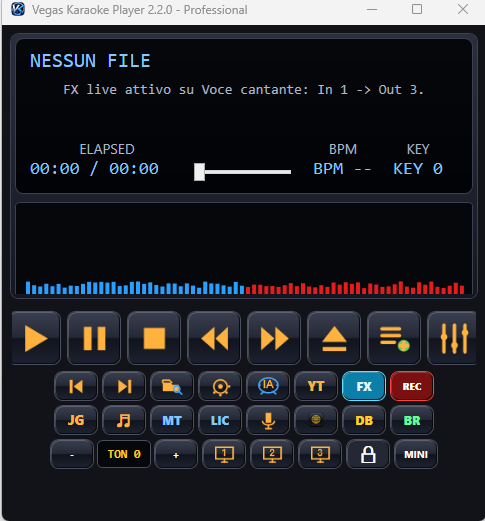
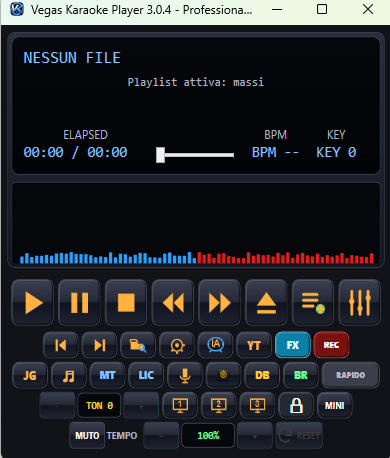
Add files via upload

Changed region(s): [[0.0, 0.0, 1.0, 1.0], [0.9846, 0.9782, 1.0, 1.0], [0.7385, 0.3057, 0.7692, 0.3362]]

diff --git a/prezzi.html b/prezzi.html
@@ -1,4 +1,4 @@
 <!DOCTYPE html>
 
 <html lang="it"><head><meta charset="utf-8"/><meta content="width=device-width,initial-scale=1" name="viewport"/><title>Prezzi Vegas Karaoke Player | Licenze Home e Professional</title><meta content="Prezzi Vegas Karaoke Player: Demo gratuita, licenza Home a 29€ e Professional a 79€ per 12 mesi. Scopri anche il programma Invita un amico." name="description"/><link href="https://karaokeplayer.it/prezzi.html" rel="canonical"/><meta content="Prezzi Vegas Karaoke Player | Licenze e premi Invita un amico" property="og:title"/><meta content="Professional a 79€ per 12 mesi. Con il Codice Cliente: 1 amico porta il 50% di sconto sul rinnovo, 3 amici estendono la licenza a 24 mesi." property="og:description"/><meta content="website" property="og:type"/><meta content="https://karaokeplayer.it/assets/img/screenshot-player-220.png" property="og:image"/><meta content="summary_large_image" name="twitter:card"/><link href="favicon.png" rel="icon"/><link href="assets/css/style.css" rel="stylesheet"/><meta content="Massimiliano Bevilacqua" name="author"/><meta content="index, follow, max-image-preview:large" name="robots"/><meta content="#111111" name="theme-color"/><meta content="software karaoke, programma karaoke, karaoke Windows, player karaoke, Vegas Karaoke Player, MIDI KAR CDG, SoundFont, DJ karaoke, creare karaoke con IA" name="keywords"/><link href="favicon-32.png" rel="icon" sizes="32x32"/><link href="apple-touch-icon.png" rel="apple-touch-icon"/><meta content="Prezzi Vegas Karaoke Player | Licenze e premi" name="twitter:title"/><meta content="Professional a 79€ per 12 mesi con programma Invita un amico tramite Codice Cliente." name="twitter:description"/><meta content="https://karaokeplayer.it/prezzi.html" property="og:url"/><meta content="Vegas Karaoke Player" property="og:site_name"/><script type="application/ld+json">{"@context":"https://schema.org","@type":"SoftwareApplication","name":"Vegas Karaoke Player","url":"https://karaokeplayer.it/","image":"https://karaokeplayer.it/assets/img/logo-vegas-karaoke.png","operatingSystem":"Windows 10, Windows 11","applicationCategory":"MultimediaApplication","softwareVersion":"2.3.1","description":"Prezzi e licenze Vegas Karaoke Player: Home 29 euro anno, Professional 59 euro anno, demo 15 giorni, assistenza, uso privato e professionale.","offers":[{"@type":"Offer","name":"Home Edition","price":"29","priceCurrency":"EUR","availability":"https://schema.org/InStock"},{"@type":"Offer","name":"Professional 12 mesi","price":"79","priceCurrency":"EUR","availability":"https://schema.org/InStock"}],"publisher":{"@type":"Organization","name":"Massimiliano Bevilacqua","email":"info@karaokeplayer.it","url":"https://karaokeplayer.it/"}}</script></head><body><header class="topbar"><div class="container nav"><a class="brand" href="index.html"><img alt="Vegas Karaoke Player software karaoke professionale per Windows" src="assets/img/icon-vk.png"/><span>Vegas Karaoke Player</span></a><button class="btn2 mobile-toggle" type="button">Menu</button><nav class="navlinks"><a href="index.html">Home</a><a href="novita-3-0.html">Novità 3.0</a><a href="funzionalita.html">Funzioni</a><a href="bruce-assistente-ia.html">Bruce IA</a><a href="fonico-ai.html">Fonico AI</a><a href="manuale-online.html">Manuale Online</a><a href="jangle-pad-wall.html">Jangle</a><a href="database-karaoke.html">Database</a><a href="creare-karaoke-ia.html">IA</a><a href="prezzi.html">Prezzi</a><a href="invita-un-amico.html">Invita un amico</a><a href="download.html">Download</a><a href="banco-suoni-pro.html">Banco PRO</a><a href="faq.html">FAQ</a></nav></div></header>
-<main><section class="hero"><div class="container"><span class="eyebrow">Licenze Vegas Karaoke Player</span><h1 class="h1">FREE, HOME e PROFESSIONAL</h1><p class="lead">Una sola installazione. Scegli le funzioni che ti servono.</p></div></section><section class="section pricing-new" id="nuove-licenze"><div class="container"><span class="eyebrow">Nuovo listino Vegas Karaoke Player</span><h2>Un solo programma, la licenza giusta per te</h2><p class="sub">Prova completa PRO per 10 giorni; poi versione FREE gratuita per sempre. Le nuove modalità saranno disponibili con l’aggiornamento del sistema licenze.</p><div class="vk-price-grid"><article class="vk-plan"><h3>FREE</h3><div class="vk-amount">0 €</div><p>Gratis per sempre · 1 PC</p><ul><li>Player karaoke essenziale</li><li>Un solo monitor</li><li>Nessun plugin o funzione IA</li><li>Solo uso privato</li></ul><a class="btn2" href="download.html">Scarica il player</a></article><article class="vk-plan"><h3>HOME</h3><div class="vk-amount">30 €</div><p>Una tantum · 1 PC</p><ul><li>Licenza permanente</li><li>Tutte le funzioni e i plugin non IA</li><li>Fino a 3 monitor</li><li>Primo anno di aggiornamenti incluso</li><li><strong>NON PER USO IN PUBBLICO</strong></li></ul><a class="btn2" href="acquista.html">Richiedi HOME</a></article><article class="vk-plan vk-featured"><span class="vk-plan-tag">Tutto incluso</span><h3>PROFESSIONAL</h3><div class="vk-amount">59,90 € <small>/ 12 mesi</small></div><p>Oppure <strong>129 € per sempre</strong></p><ul><li>Tutte le funzioni e tutti i plugin</li><li>IA inclusa (eventuali servizi esterni esclusi)</li><li>Uso professionale del software</li><li>2 PC utilizzabili contemporaneamente</li><li>PRO permanente: 12 mesi aggiornamenti inclusi, poi 30 €/anno facoltativi</li></ul><a class="btn gold" href="acquista.html">Richiedi PRO</a></article></div><p class="note">HOME: aggiornamenti dopo il primo anno facoltativi, prezzo di rinnovo da confermare. Le licenze permanenti restano utilizzabili anche senza rinnovo aggiornamenti. L’uso pubblico del software non include diritti sui brani musicali.</p></div></section><section class="section"><div class="container"><h2>Confronta le versioni</h2><div style="overflow-x:auto"><table class="vk-compare"><thead><tr><th>Funzione</th><th>FREE</th><th>HOME</th><th>PRO</th></tr></thead><tbody><tr><td>Riproduzione karaoke e playlist</td><td>✓</td><td>✓</td><td>✓</td></tr><tr><td>Secondo monitor</td><td>—</td><td>✓</td><td>✓</td></tr><tr><td>Plugin tradizionali, VST, ASIO, Jangle</td><td>—</td><td>✓</td><td>✓</td></tr><tr><td>Fonico AI, Bruce IA, Crea Karaoke IA</td><td>—</td><td>—</td><td>✓</td></tr><tr><td>Utilizzo pubblico consentito dalla licenza software</td><td>—</td><td>—</td><td>✓</td></tr><tr><td>Computer</td><td>1</td><td>1</td><td>2 simultanei</td></tr></tbody></table></div><div class="vk-notice"><strong>TRIAL PRO: 10 giorni con tutte le funzioni abilitate.</strong> Dal giorno 11 il programma passa alla FREE senza cancellare dati o playlist. La nuova gestione sarà effettiva dopo il rilascio del relativo aggiornamento software.</div><h2>Black Friday e Natale 2026 — promozione programmata</h2><p>Dal 27 novembre al 31 dicembre 2026, previa attivazione commerciale: HOME <strong>24,90 €</strong>, PRO annuale <strong>44,90 €</strong>, PRO permanente <strong>99 €</strong>. I prezzi di riferimento e le comunicazioni di sconto saranno verificati prima della pubblicazione dell’offerta.</p><p>Le condizioni delle licenze già acquistate restano valide secondo gli accordi originari. <a href="acquista.html">Richiedi informazioni sulle nuove licenze</a>.</p></div></section></main><footer class="footer"><div class="container footer-grid"><div><a class="brand" href="index.html"><img alt="Vegas Karaoke Player software karaoke professionale per Windows" src="assets/img/icon-vk.png"/><span>Vegas Karaoke Player</span></a><p>Workstation professionale per karaoke, DJ, cantanti, musicisti, locali e band live.</p><p><strong>Massimiliano Bevilacqua</strong><br/>P. IVA 02090440492<br/><a href="mailto:info@karaokeplayer.it">info@karaokeplayer.it</a><br/><a class="whatsapp-link" href="https://wa.me/393791852714?text=Ciao%2C%20vorrei%20informazioni%20su%20Vegas%20Karaoke%20Player" rel="noopener" target="_blank">WhatsApp 379 185 2714</a><br/><a class="social-link" href="https://www.facebook.com/profile.php?id=61590640049211" rel="noopener" target="_blank">Facebook Vegas Karaoke Player</a></p></div><div><h3>Sito</h3><a href="index.html">Home</a><a href="funzionalita.html">Funzionalità</a><a href="screenshot.html">Screenshot</a><a href="prezzi.html">Prezzi</a><a href="download.html">Download</a><a href="acquista.html">Acquista</a><a href="supporto.html">Supporto</a><a href="faq.html">FAQ</a><a href="invita-un-amico.html">Invita un amico</a></div><div><h3>Funzioni Avanzate</h3><a href="jangle-live.html">Jangle Live e Pad Wall</a><a href="formati-karaoke-supportati.html">Formati supportati</a><a href="creare-karaoke-da-mp3.html">Creazione Karaoke con IA</a><a href="dj-online.html">Pannello DJ Online senza app</a><a href="midi-soundfont.html">Mixer MIDI &amp; SoundFont</a><a href="multitraccia-band.html">Multitraccia Band</a><a href="personalizzazioni.html">Sviluppi personalizzati</a></div><div><h3>Legale</h3><a href="privacy.html">Privacy Policy</a><a href="cookie.html">Cookie Policy</a><a href="termini-vendita.html">Termini di Vendita</a><a href="eula.html">Licenza Software</a><a href="termini-dj-online.html">Termini DJ Online</a><a href="docs/Disclaimer_Copyright_Contenuti_Vegas_Karaoke_Player.pdf">PDF Copyright e Contenuti</a><a href="docs/Assistenza_Tecnica_Vegas_Karaoke_Player.pdf">PDF Assistenza Tecnica</a></div></div><div class="container note">© 2026 Vegas Karaoke Player - Tutti i diritti riservati. Software professionale per karaoke, DJ, cantanti, locali e intrattenimento musicale. Marchi e nomi citati appartengono ai rispettivi proprietari.</div></footer><script src="assets/js/main.js"></script></body></html>
+<main><section class="section"><div class="container"><h2>Nuovo listino previsto per Vegas Karaoke Player 3.0</h2><p><strong>FREE:</strong> gratuita · <strong>HOME permanente:</strong> 30 € (solo uso privato) · <strong>PRO annuale:</strong> 59,90 €/anno · <strong>PRO permanente:</strong> 129 €.</p><p>Prova PRO di 10 giorni, poi FREE. </p></div></section><section class="hero"><div class="container"><span class="eyebrow">Licenze Vegas Karaoke Player</span><h1 class="h1">FREE, HOME e PROFESSIONAL</h1><p class="lead">Una sola installazione. Scegli le funzioni che ti servono.</p></div></section><section class="section pricing-new" id="nuove-licenze"><div class="container"><span class="eyebrow">Nuovo listino Vegas Karaoke Player</span><h2>Un solo programma, la licenza giusta per te</h2><p class="sub">Prova completa PRO per 10 giorni; poi versione FREE gratuita per sempre.</p><div class="vk-price-grid"><article class="vk-plan"><h3>FREE</h3><div class="vk-amount">0 €</div><p>Gratis per sempre · 1 PC</p><ul><li>Player karaoke essenziale</li><li>Un solo monitor</li><li>Nessun plugin o funzione IA</li><li>Solo uso privato</li></ul><a class="btn2" href="download.html">Scarica il player</a></article><article class="vk-plan"><h3>HOME</h3><div class="vk-amount">30 €</div><p>Una tantum · 1 PC</p><ul><li>Licenza permanente</li><li>Tutte le funzioni e i plugin non IA</li><li>Fino a 3 monitor</li><li>Primo anno di aggiornamenti incluso</li><li><strong>NON PER USO IN PUBBLICO</strong></li></ul><a class="btn2" href="acquista.html">Richiedi HOME</a></article><article class="vk-plan vk-featured"><span class="vk-plan-tag">Tutto incluso</span><h3>PROFESSIONAL</h3><div class="vk-amount">59,90 € <small>/ 12 mesi</small></div><p>Oppure <strong>129 € per sempre</strong></p><ul><li>Tutte le funzioni e tutti i plugin</li><li>IA inclusa (eventuali servizi esterni esclusi)</li><li>Uso professionale del software</li><li>2 PC utilizzabili contemporaneamente</li><li>PRO permanente: 12 mesi aggiornamenti inclusi, poi 30 €/anno facoltativi</li></ul><a class="btn gold" href="acquista.html">Richiedi PRO</a></article></div><p class="note">HOME: aggiornamenti dopo il primo anno facoltativi, prezzo di rinnovo da confermare. Le licenze permanenti restano utilizzabili anche senza rinnovo aggiornamenti. L’uso pubblico del software non include diritti sui brani musicali.</p></div></section><section class="section"><div class="container"><h2>Confronta le versioni</h2><div style="overflow-x:auto"><table class="vk-compare"><thead><tr><th>Funzione</th><th>FREE</th><th>HOME</th><th>PRO</th></tr></thead><tbody><tr><td>Riproduzione karaoke e playlist</td><td>✓</td><td>✓</td><td>✓</td></tr><tr><td>Secondo monitor</td><td>—</td><td>✓</td><td>✓</td></tr><tr><td>Plugin tradizionali, VST, ASIO, Jangle</td><td>—</td><td>✓</td><td>✓</td></tr><tr><td>Fonico AI, Bruce IA, Crea Karaoke IA</td><td>—</td><td>—</td><td>✓</td></tr><tr><td>Utilizzo pubblico consentito dalla licenza software</td><td>—</td><td>—</td><td>✓</td></tr><tr><td>Computer</td><td>1</td><td>1</td><td>2 simultanei</td></tr></tbody></table></div><div class="vk-notice"><strong>TRIAL PRO: 10 giorni con tutte le funzioni abilitate.</strong> Dal giorno 11 il programma passa alla FREE senza cancellare dati o playlist. La nuova gestione sarà effettiva dopo il rilascio del relativo aggiornamento software.</div><h2>Black Friday e Natale 2026 — promozione programmata</h2><p>Dal 27 novembre al 31 dicembre 2026, previa attivazione commerciale: HOME <strong>24,90 €</strong>, PRO annuale <strong>44,90 €</strong>, PRO permanente <strong>99 €</strong>. I prezzi di riferimento e le comunicazioni di sconto saranno verificati prima della pubblicazione dell’offerta.</p><p>Le condizioni delle licenze già acquistate restano valide secondo gli accordi originari. <a href="acquista.html">Richiedi informazioni sulle nuove licenze</a>.</p></div></section></main><footer class="footer"><div class="container footer-grid"><div><a class="brand" href="index.html"><img alt="Vegas Karaoke Player software karaoke professionale per Windows" src="assets/img/icon-vk.png"/><span>Vegas Karaoke Player</span></a><p>Workstation professionale per karaoke, DJ, cantanti, musicisti, locali e band live.</p><p><strong>Massimiliano Bevilacqua</strong><br/>P. IVA 02090440492<br/><a href="mailto:info@karaokeplayer.it">info@karaokeplayer.it</a><br/><a class="whatsapp-link" href="https://wa.me/393791852714?text=Ciao%2C%20vorrei%20informazioni%20su%20Vegas%20Karaoke%20Player" rel="noopener" target="_blank">WhatsApp 379 185 2714</a><br/><a class="social-link" href="https://www.facebook.com/profile.php?id=61590640049211" rel="noopener" target="_blank">Facebook Vegas Karaoke Player</a></p></div><div><h3>Sito</h3><a href="index.html">Home</a><a href="funzionalita.html">Funzionalità</a><a href="screenshot.html">Screenshot</a><a href="prezzi.html">Prezzi</a><a href="download.html">Download</a><a href="acquista.html">Acquista</a><a href="supporto.html">Supporto</a><a href="faq.html">FAQ</a><a href="invita-un-amico.html">Invita un amico</a></div><div><h3>Funzioni Avanzate</h3><a href="jangle-live.html">Jangle Live e Pad Wall</a><a href="formati-karaoke-supportati.html">Formati supportati</a><a href="creare-karaoke-da-mp3.html">Creazione Karaoke con IA</a><a href="dj-online.html">Pannello DJ Online senza app</a><a href="midi-soundfont.html">Mixer MIDI &amp; SoundFont</a><a href="multitraccia-band.html">Multitraccia Band</a><a href="personalizzazioni.html">Sviluppi personalizzati</a></div><div><h3>Legale</h3><a href="privacy.html">Privacy Policy</a><a href="cookie.html">Cookie Policy</a><a href="termini-vendita.html">Termini di Vendita</a><a href="eula.html">Licenza Software</a><a href="termini-dj-online.html">Termini DJ Online</a><a href="docs/Disclaimer_Copyright_Contenuti_Vegas_Karaoke_Player.pdf">PDF Copyright e Contenuti</a><a href="docs/Assistenza_Tecnica_Vegas_Karaoke_Player.pdf">PDF Assistenza Tecnica</a></div></div><div class="container note">© 2026 Vegas Karaoke Player - Tutti i diritti riservati. Software professionale per karaoke, DJ, cantanti, locali e intrattenimento musicale. Marchi e nomi citati appartengono ai rispettivi proprietari.</div></footer><script src="assets/js/main.js"></script></body></html>
